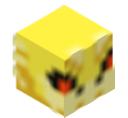
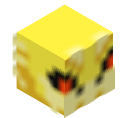
fixes

diff --git a/src/routes/api/item/[id=itemId]/+server.ts b/src/routes/api/item/[id=itemId]/+server.ts
@@ -1,7 +1,6 @@
 import type { RequestHandler } from './$types';
 import { renderItem } from '$lib/renderer';
 import { error } from '@sveltejs/kit';
-import sharp from 'sharp';
 
 // GET /api/head/[id=itemId]
 export const GET: RequestHandler = async ({ params }) => {
@@ -11,9 +10,7 @@ export const GET: RequestHandler = async ({ params }) => {
 	try {
 		const attachment = await renderItem(id, {});
 
-		const upscaledImage = await sharp(attachment.image).resize(512, 512).toBuffer();
-
-		return new Response(upscaledImage, { headers: { 'Content-Type': 'image/png' } });
+		return new Response(attachment.image, { headers: { 'Content-Type': 'image/png' } });
 	} catch (errorMsg) {
 		console.log('ERROR:', errorMsg);
 		throw error(500, 'Internal server error');

diff --git a/src/lib/renderer.ts b/src/lib/renderer.ts
@@ -216,9 +216,13 @@ async function renderHead(textureId: string, scale: number) {
 	const headCanvas = createCanvas(scale * 20 * hatFactor, scale * 18.5);
 
 	const ctx = canvas.getContext('2d');
+	ctx.imageSmoothingEnabled = false;
 	const hat = hatCanvas.getContext('2d');
+	hat.imageSmoothingEnabled = false;
 	const hatBg = hatBgCanvas.getContext('2d');
+	hatBg.imageSmoothingEnabled = false;
 	const head = headCanvas.getContext('2d');
+	head.imageSmoothingEnabled = false;
 
 	const skin = await loadImage(`https://textures.minecraft.net/texture/${textureId}`);
 
